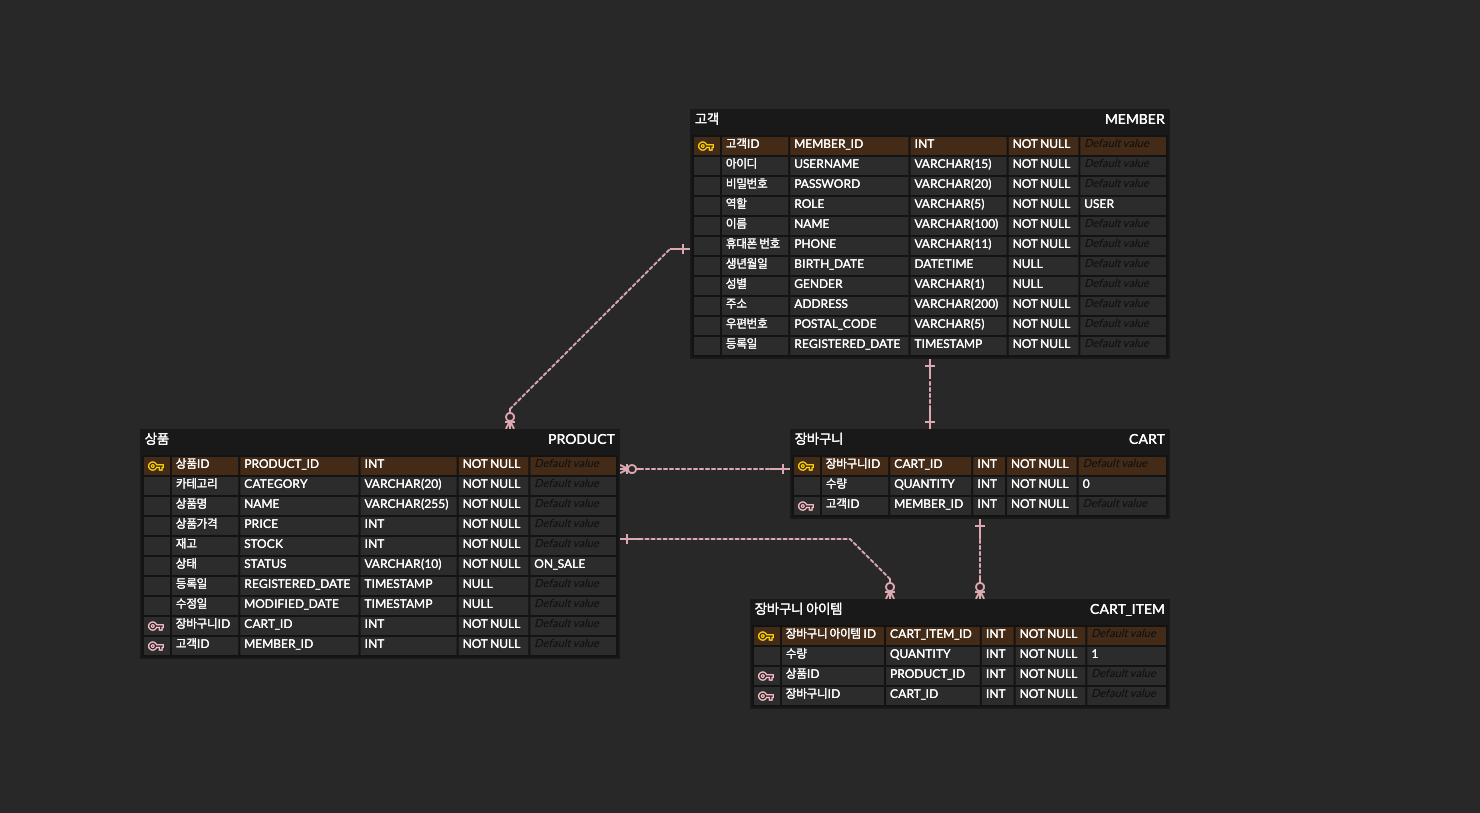
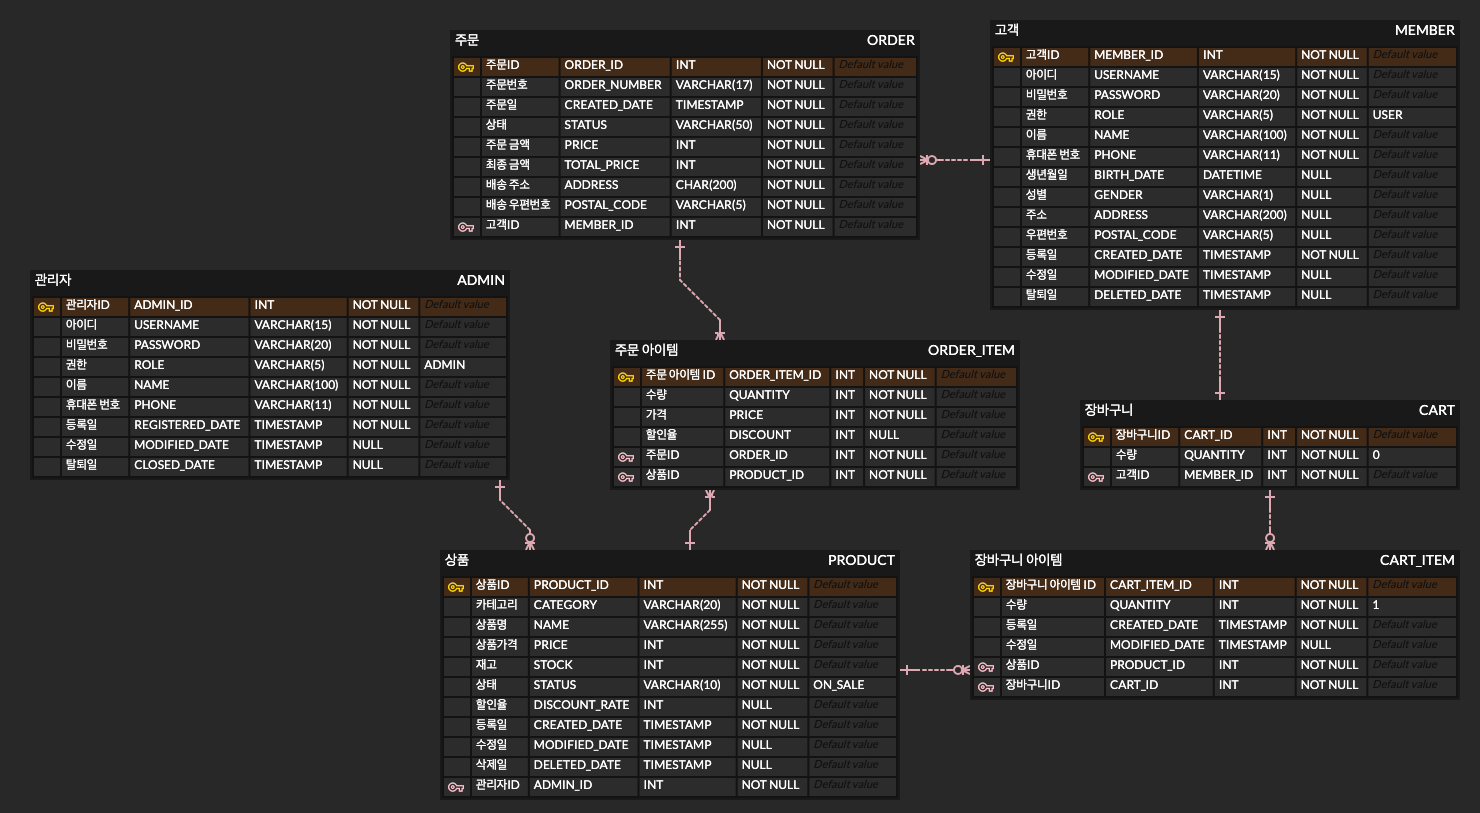
docs: README.md 업데이트

diff --git a/README.md b/README.md
@@ -1,35 +1,76 @@
-# 장바구니 프로젝트 🛒
+# 커머스 프로젝트 🛍
 
-상품을 등록하고, 등록된 상품을 장바구니에 담는 기능을 구현한 프로젝트입니다.
+상품을 등록하고, 등록된 상품을 장바구니에 담고, 장바구니에 담은 상품을 주문하는 기능을 구현한 프로젝트입니다.
+<br/>
+<br/>
 
 ## ERD
 
 ![erd](./docs/img/erd.png)
+<br/>
+<br/>
 
 ## 프로젝트 기능
 
+### [고객]
+
 **회원가입**
-- 아이디, 비밀번호, 이름, 휴대폰번호, 주소, 우편번호의 정보가 필수적으로 필요하다.
-- 생년월일과 성별 정보는 선택적으로 입력 가능하다.
+- 아이디, 비밀번호, 이름, 휴대폰번호의 정보가 필수적으로 필요하다.
+- 일반 고객의 경우 생년월일과 성별 정보는 선택적으로 입력 가능하다.
 - 이미 가입된 아이디로 회원가입을 시도할 경우 에러가 발생한다.
 - 패스워드는 영문과 숫자의 조합으로 구성되어야 하며, 이를 충족하지 못할 경우 에러가 발생한다.
+- 가입한 고객의 권한은 일반 고객(USER)과 관리자(ADMIN)로 구분하며, default는 일반 고객(USER)이다.
 
 **로그인**
 - 가입되어있지 않는 아이디로 로그인을 요청할 경우 에러가 발생한다.
-- 비밀번호가 일치하지 않는 경우 에러가 발생한다.
+- 아이디와 비밀번호가 일치하지 않는 경우 에러가 발생한다.
 
-**상품 등록 / 수정 / 삭제**
-- 관리자 로그인 후 이용 가능하다.
-- 본인이 등록한 상품에 대해서만 수정과 삭제가 가능하다.
+**회원탈퇴**
+- 탈퇴 시, 고객의 탈퇴일 정보가 업데이트된다.
+- 관리자가 탈퇴 시, 등록했던 상품의 상태가 판매 종료(END_OF_SALE)로 변경된다.
+
+<br/>
+
+### [상품]
+- 관리자만 상품을 등록/수정/삭제할 수 있다.
+
+**상품 등록**
+- 등록을 위해서 카테고리, 상품명, 가격, 재고 수량, 할인율, 판매 상태의 정보가 필요하다.
+
+**상품 수정/삭제**
+- 본인이 등록한 상품만 수정, 삭제할 수 있다.
+- 재고가 0인 상품은 판매 상태가 품절(SOLD_OUT)로 변경된다.
+- 삭제된 상품은 판매 상태가 판매 종료(END_OF_SALE)로 변경된다.
 
 **상품 조회**
 - 로그인을 하지 않아도 이용 가능하다.
-- 상품명, 가격대, 카테고리로 조회가 가능하다.
-- 검색어를 포함하고 있는 상품을 조회하여 페이징된 상품 정보를 반환한다.
+- 검색어를 포함하고 있는 상품명 또는 카테고리가 조회 가능하다.
+- 검색어, 최소 가격, 최대 가격으로 조회 시, 최소 가격과 최대 가격 내에 있는 상품이 조회 가능하다.
+- 조회 시, size 10으로 상품 리스트를 반환한다.
+- 반환되는 상품 리스트에는 현재 판매 중인 상품과 품절된 상품이 포함되며, 판매가 종료된 상품은 포함되지 않는다.
+  <br/>
 
-**장바구니 등록 / 수정 / 삭제**
-- 로그인 후 이용 가능하다.
-- 본인의 장바구니만 이용 가능하다.
+### [장바구니]
+- 로그인 후 본인의 장바구니만 이용 가능하다.
+
+**장바구니 추가**
+- 현재 판매 중인 상품만 장바구니에 담을 수 있다.
+- 여러 종류의 상품을 장바구니에 담을 수 있다.
+- 하나의 상품에 대해 해당 상품의 재고 수량까지 장바구니에 담을 수 있다.
+
+**장바구니 수정/삭제**
+- 하나의 상품에 대해 장바구니에 담을 수 있는 최소 수량은 1개이고, 최대 수량은 해당 상품의 재고 수량이다.
+- 장바구니에 담긴 상품을 삭제할 수 있고, 삭제를 취소할 수 없다.
+
+**장바구니 조회**
+- 장바구니에 담은지 30일 지난 상품은 자동으로 삭제된다.
+- 품절되거나 판매 종료된 상품은 장바구니에서 조회가 가능하지만, 수량을 수정할 수 없고 삭제만 가능하다.
+
+<br/>
+
+### [주문] (추가 기능 구현 사항)
+<br/>
+<br/>
 
 
 ## 기술 스택
